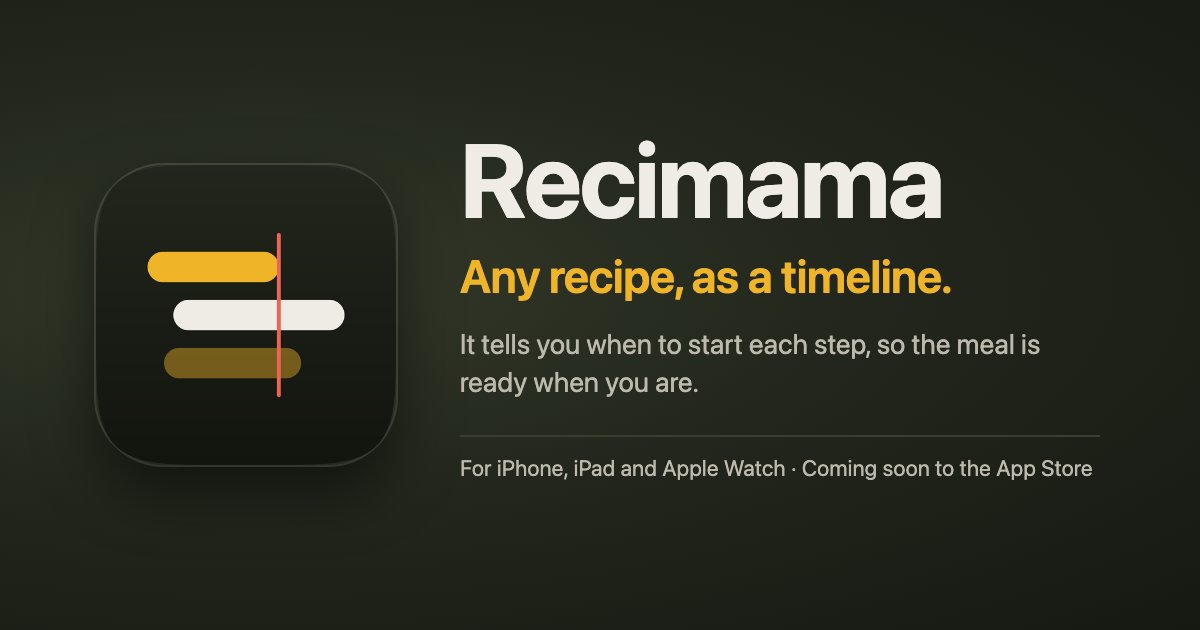
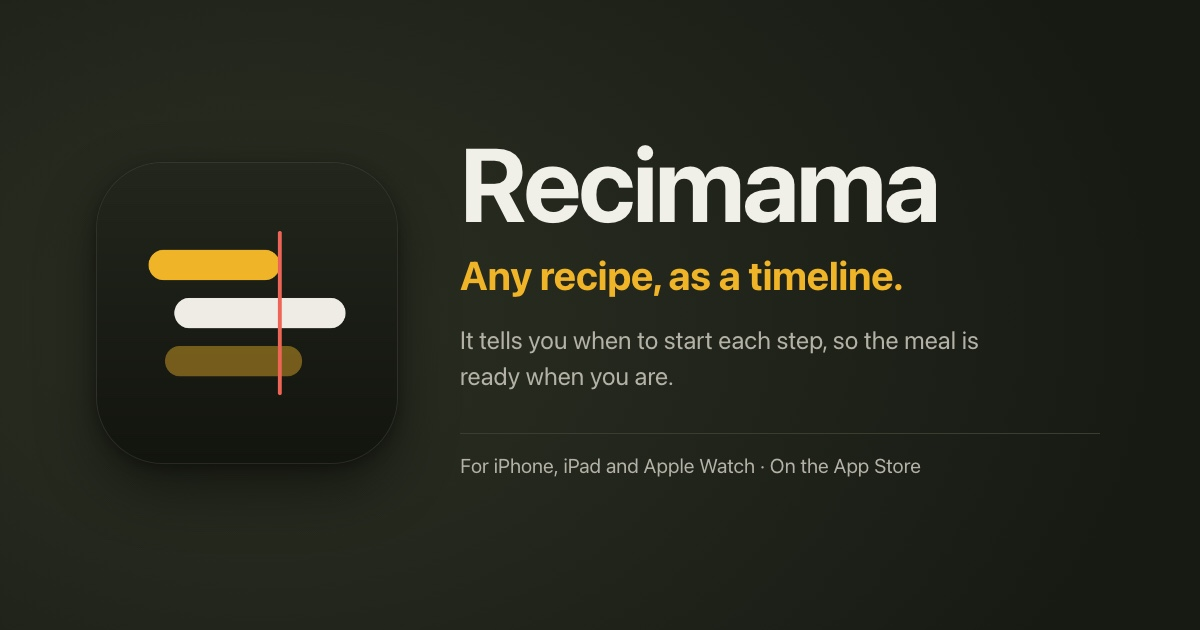
recimama.com says Recimama is on the App Store and links to it, with the privacy policy of 19 October
The badge at the top says "Now on the App Store" and the closing heading says "Get Recimama on the
App Store", both linking to https://apps.apple.com/app/id6816920825; the site's description, the
home page's share text, the share picture and its alt text say "On the App Store". A few lines of CSS
keep the two links' look. The privacy policy is the one of 19 October for 1.0.1: the browser's choice
of search engine, Search in the browser, and "Move on when a step's time is up".

Built on GitHub's main (af8f16e): every screenshot and page of the 10 and 17 October uploads stays
as it is; only these six files change.

diff --git a/index.html b/index.html
@@ -2,7 +2,7 @@
 layout: default
 title: "Recimama: any recipe, as a timeline"
 og_title: "Recimama: any recipe, as a timeline"
-og_description: "It tells you when to start each step, so the meal is ready when you are. Coming soon for iPhone, iPad and Apple Watch."
+og_description: "It tells you when to start each step, so the meal is ready when you are. On the App Store for iPhone, iPad and Apple Watch."
 body_class: home
 ---
 <section class="hero" aria-labelledby="hero-title">
@@ -14,7 +14,7 @@ body_class: home
       </div>
       <div class="hero-intro">
         <p class="lede">Recimama turns a recipe into a timeline. It works out which steps can happen at the same time, tells you what to do next and sets an alert for each step, so everything comes together when you want to eat.</p>
-        <p class="soon"><span class="soon-badge">Coming soon to the App Store</span> <span class="soon-note">Free to download, with an optional subscription or one-time purchase.</span></p>
+        <p class="soon"><a class="soon-badge" href="https://apps.apple.com/app/id6816920825">Now on the App Store</a> <span class="soon-note">Free to download, with an optional subscription or one-time purchase.</span></p>
       </div>
     </div>
 
@@ -622,7 +622,7 @@ body_class: home
   <div class="wrap">
     <div class="closing-card">
       <img class="closing-icon" src="/assets/icons/icon-192.png" width="80" height="80" alt="" loading="lazy">
-      <h2 id="soon-title">Coming soon to the App Store</h2>
+      <h2 id="soon-title"><a href="https://apps.apple.com/app/id6816920825">Get Recimama on the App Store</a></h2>
       <p class="closing-sub">For iPhone, iPad and Apple Watch. Free to download, with an optional subscription or one-time purchase.</p>
       <div class="closing-notes">
         <div>

diff --git a/_layouts/default.html b/_layouts/default.html
@@ -25,12 +25,12 @@
 <meta property="og:image:type" content="image/jpeg">
 <meta property="og:image:width" content="1200">
 <meta property="og:image:height" content="630">
-<meta property="og:image:alt" content="The Recimama icon, three timeline bars crossed by a red line, beside the words Recimama, any recipe, as a timeline. Coming soon to the App Store, for iPhone, iPad and Apple Watch.">
+<meta property="og:image:alt" content="The Recimama icon, three timeline bars crossed by a red line, beside the words Recimama, any recipe, as a timeline. On the App Store, for iPhone, iPad and Apple Watch.">
 <meta name="twitter:card" content="summary_large_image">
 <meta name="twitter:title" content="{{ page.og_title | default: page.title | default: site.title | escape }}">
 <meta name="twitter:description" content="{{ page.og_description | default: page.description | default: site.description | escape }}">
 <meta name="twitter:image" content="https://recimama.com/assets/og-image.jpg">
-<meta name="twitter:image:alt" content="The Recimama icon, three timeline bars crossed by a red line, beside the words Recimama, any recipe, as a timeline. Coming soon to the App Store, for iPhone, iPad and Apple Watch.">
+<meta name="twitter:image:alt" content="The Recimama icon, three timeline bars crossed by a red line, beside the words Recimama, any recipe, as a timeline. On the App Store, for iPhone, iPad and Apple Watch.">
 </head>
 <body class="{{ page.body_class | default: 'doc' }}">
 <a class="skip-link" href="#main">Skip to content</a>

diff --git a/assets/site.css b/assets/site.css
@@ -1039,3 +1039,9 @@ main:focus { outline: none; }
   40% { opacity: 1; }
   100% { opacity: 0; transform: translateX(150%); }
 }
+
+/* 20 October 2026: the app is on the App Store, so the badge and the closing heading are links. They keep their look;
+   the badge takes the link colour and both underline on hover or keyboard focus. */
+a.soon-badge { color: var(--link); text-decoration: none; }
+.closing h2 a { color: inherit; text-decoration: none; }
+a.soon-badge:hover, a.soon-badge:focus-visible, .closing h2 a:hover, .closing h2 a:focus-visible { text-decoration: underline; text-underline-offset: .15em; }

diff --git a/privacy.md b/privacy.md
@@ -1,6 +1,6 @@
 # Recimama Privacy Policy
 
-*Last updated: 15 October 2026*
+*Last updated: 19 October 2026*
 
 Recimama is a cooking app made by David Rodriguez ("we", "us"), an individual developer in the United States. This policy describes what the app does with your information: what stays on your device, what goes to your own iCloud, what becomes public if you publish a recipe, what Apple and Google receive, and what other websites receive when you ask the app to fetch something.
 
@@ -19,6 +19,7 @@ Recimama keeps these on your iPhone, iPad, Mac or Apple Vision Pro. If you're si
 - your meal plans, pantry and saved menus (shopping lists are worked out from your plans)
 - which dish you've said goes into another when you plan a meal, and at which step (for example, that your tomato sauce goes into the shakshuka), which dishes you've said to finish before others start (for example, the rice before the stir-fry), and the ones you've said to serve on their own or cook in any order
 - your cooking history (for example, when you cooked a recipe and how long it actually took)
+- whether you've turned on **Move on when a step's time is up** (Settings > While cooking), so every device you cook on does the same
 - your meal trains and dinner parties, including the sign-ups on them (section 5)
 - whether you've hidden the sample recipes Recimama started your library with, which of those samples your library has already been given (so a new device doesn't add them a second time), and which samples the app has moved to Recently Deleted (so one you bring back stays)
 
@@ -28,6 +29,7 @@ These stay on this device only:
 - the list of Explore recipes and cooks you have hidden or blocked
 - your agreement to the community guidelines, and which version you agreed to
 - the name you last typed when publishing, so you don't have to type it again
+- which search engine Recimama's browser searches with: DuckDuckGo, unless you pick Google, Bing or Brave Search on its toolbar
 - which recipes you've told the duplicate finder are different recipes ("Keep both"), and whether you've put away its note at the top of your library
 - your answer to the ads consent form, where one is shown (section 11), which Google's consent software keeps on the device
 - when you first opened the app and, if you don't have Recimama Pro, when the app last suggested Pro to you after a cook, how many suggestions there have been, and how many times in a row you've answered "Not now", so that those suggestions stay rare (section 10)
@@ -127,7 +129,7 @@ Apart from iCloud, Apple's App Store (section 10) and the ads (section 11, the o
 
 | When you… | The app contacts… | What it sends |
 |---|---|---|
-| use **Find one on the web** (the in-app browser) | DuckDuckGo if you type words (with "recipe" added unless you typed it), or the site you type or tap | your search or the address, as any browser would |
+| use **Find one on the web** (the in-app browser) | if you type words, the search engine you picked in the browser (DuckDuckGo, unless you chose Google, Bing or Brave Search; the choice stays on this device), with "recipe" added unless you typed it; or the site you type or tap | your search or the address, as any browser would |
 | import a recipe from a page you have open (in Safari with the extension, or in the in-app browser) | the address of the recipe's photo, if the page gives one. For an Instagram, Facebook, TikTok or Threads post, that is usually the platform's own servers. The app doesn't fetch a photo from their servers for any other site's page | a request for the photo |
 | share a post from Instagram, Facebook, TikTok or Threads to Recimama, or paste its link into **From a video link** or **Paste text** | that platform: once for the public page it publishes for showing the post on other websites (for TikTok, its oEmbed service), which has the post's caption and photo on it, and once for the photo. For an Instagram post whose page for other websites shows no caption (the post is private or removed, its owner doesn't let other websites show it, or Instagram sends its web app instead), the app asks once more, for the post's own public page, only to read the caption and photo that page carries for link previews. Facebook's page for other websites shows no photo, so for a Facebook post the app first asks the post's own public page once, only to find its photo. For a short link (such as vm.tiktok.com), once before that, only to learn which post it names | the post's address, and nothing else. No login and no cookies. The recipe is read from the caption on that page. If you shared the caption with the post, that caption is read instead, and the platform is asked only for the post's public page, to find its photo, and for the photo; if what you shared with it isn't a recipe, the post is read from the platform's public page as above. If the post is private or removed (for Instagram, once its own public page has shown nothing either), the app asks you to paste the caption and sends nothing more. If its caption has no recipe, the app asks once for the post's photo, to show it with the dish's name while you paste the recipe; if the caption links to a recipe page, that page is read as in the row below. If there is no photo, the recipe simply has none. |
 | share or paste a Pinterest pin | Pinterest: for a pin.it link, twice, only to learn which pin it names; then once for Pinterest's public widget service, which says which page the pin was saved from | the pin's address, and nothing else. No login and no cookies. That page is then read as in the row below, and the pin's photo is fetched if the page gives none. |
@@ -136,6 +138,7 @@ Apart from iCloud, Apple's App Store (section 10) and the ads (section 11, the o
 | with Recimama Pro, tap **Read the steps from the video** on the review of an Instagram post with a video (a reel, or a video in a carousel) whose caption has the ingredients but not the steps | Instagram: once for the post's video, at the address given by the page Instagram publishes for showing the post on other websites, which the app read when the post came in (that page is asked for once more first if it was read more than about an hour ago, or the address in it has expired). When that page leaves the video out (it does for videos Instagram won't let other websites play, and for posts it says aren't available there), the app asks once for the post's own public page instead, and uses the address that page gives | the address of the page or of the video, and nothing else. No login and no cookies. Only when you tap, never on its own. The video goes into a private temporary file on your device, is read there (section 8) and is deleted when the read ends. If neither page offers the video (a private or removed post, a photo post, or a page with no video in it), no video is asked for. |
 | with Recimama Pro, on iOS 27 with Apple Intelligence, tap **Watch the video for the steps** on that review, once reading the post's video has given no steps | Instagram, exactly as for **Read the steps from the video** (the row above): the same pages, if they are needed, and the post's video once more | the same addresses, and nothing else. No login and no cookies. Only when you tap, never on its own. The video goes into a private temporary file again and is deleted when the watch ends. The frames the app picks from it are shown only to Apple's on-device model (section 8): nothing of the video or of its frames leaves your device. |
 | with Recimama Pro, tap **Find a similar recipe** on the review of a post whose caption has the ingredients but not the steps, once reading its video has given no steps | DuckDuckGo, once, then up to five recipe pages from its results, each once (never Instagram, Facebook, TikTok or Threads). **Open it** opens one of those pages in the in-app browser, as **Find one on the web** does | the dish's name, as the post or the review gives it, up to three of the recipe's ingredient names (never salt, pepper or water) and the word "recipe"; then a request for each page, as for a link you import. Nothing else: not the caption, not the video, no account. Only when you tap. The pages are compared with your dish on your device. If you tap **Use its steps**, that page's own steps are added to your recipe, each marked with the page's title and site, and its address is kept in the recipe's description (section 1). |
+| tap **Search in the browser** on that review, offered when Find a similar recipe's search was refused by DuckDuckGo's check for robots or found nothing | the search engine you picked in the in-app browser (DuckDuckGo, unless you chose Google, Bing or Brave Search): its ordinary search page, loaded in the browser for you to read, as Safari would load it; then the pages you open there, as with **Find one on the web** | the same words Find a similar recipe searched for, as any browser would; then what any browser sends for the pages you open. The app itself reads no search engine's results but DuckDuckGo's, in the rows above. If you tap **Use its steps** on a recipe page there, that page's steps are added to your recipe as for a similar recipe it found (the row above). |
 
 For a post on Instagram, Facebook, TikTok or Threads, share the post to Recimama from that app, or paste its link. (On Apple Vision Pro, Recimama isn't in the share sheet, so paste the link.) The app reads only what the platform shows anyone without an account, and it reads the caption on your device. A caption you paste yourself, into **Paste text** or on the review screen when a post can't be read, is read on your device; for it, the app contacts the platform only for the post's photo, as the table says. **The only video the app downloads is an Instagram post's video (a reel, or a video in a carousel), and only when you ask for it**: with Recimama Pro, **Read the steps from the video** fetches the post's public video (the table's row for it), reads it on your device and deletes it (section 8), and **Watch the video for the steps** fetches it once more in the same way (the row after it). No other video is downloaded, from these platforms or from any other site. **From a video** reads a video that is already on your device — one you saved or filmed yourself, or shared to Recimama — and the app neither fetches it nor sends it anywhere (section 8).
 
@@ -235,7 +238,7 @@ Recimama has no sign-up or login and no account with us. We have no analytics of
 | Who | What they receive | Their role |
 |---|---|---|
 | **Apple** | Your private iCloud data (section 2), which we can't see. Explore's public database: published recipes, reports, the blocked list and our moderation log (sections 3 and 4). Your Recimama Pro purchase (section 10). Crash logs, if you've agreed to share them. | Apple hosts iCloud and Explore's database for us under its developer agreement with us. It sells Recimama Pro and handles the payment under its own terms and privacy policy. |
-| **Google** | For the ads: what section 11 lists. For email: anything you email us, because our inbox is a Gmail account. | Ads: as section 11 describes. Email: Google stores our mail under its terms and privacy policy. |
+| **Google** | For the ads: what section 11 lists. For email: anything you email us, because our inbox is a Gmail account. If you pick Google as the search engine of Recimama's browser: your searches there, as section 7 says. | Ads: as section 11 describes. Email: Google stores our mail under its terms and privacy policy. Search: as any website you visit, under its own privacy policy. |
 | **Websites you ask the app to reach** | What section 7 lists | Each under its own privacy policy |
 | **People you share with** | Meal trains, invitations, cards and backups you send (sections 5 and 6), and anything you publish to Explore (section 3) | Whatever they then do with it |
 | **Authorities** | Only what the law requires or a threat to someone's safety calls for (section 4): for example, a report of child sexual abuse material to NCMEC, or an order from a court | Under the law that applies to them |
